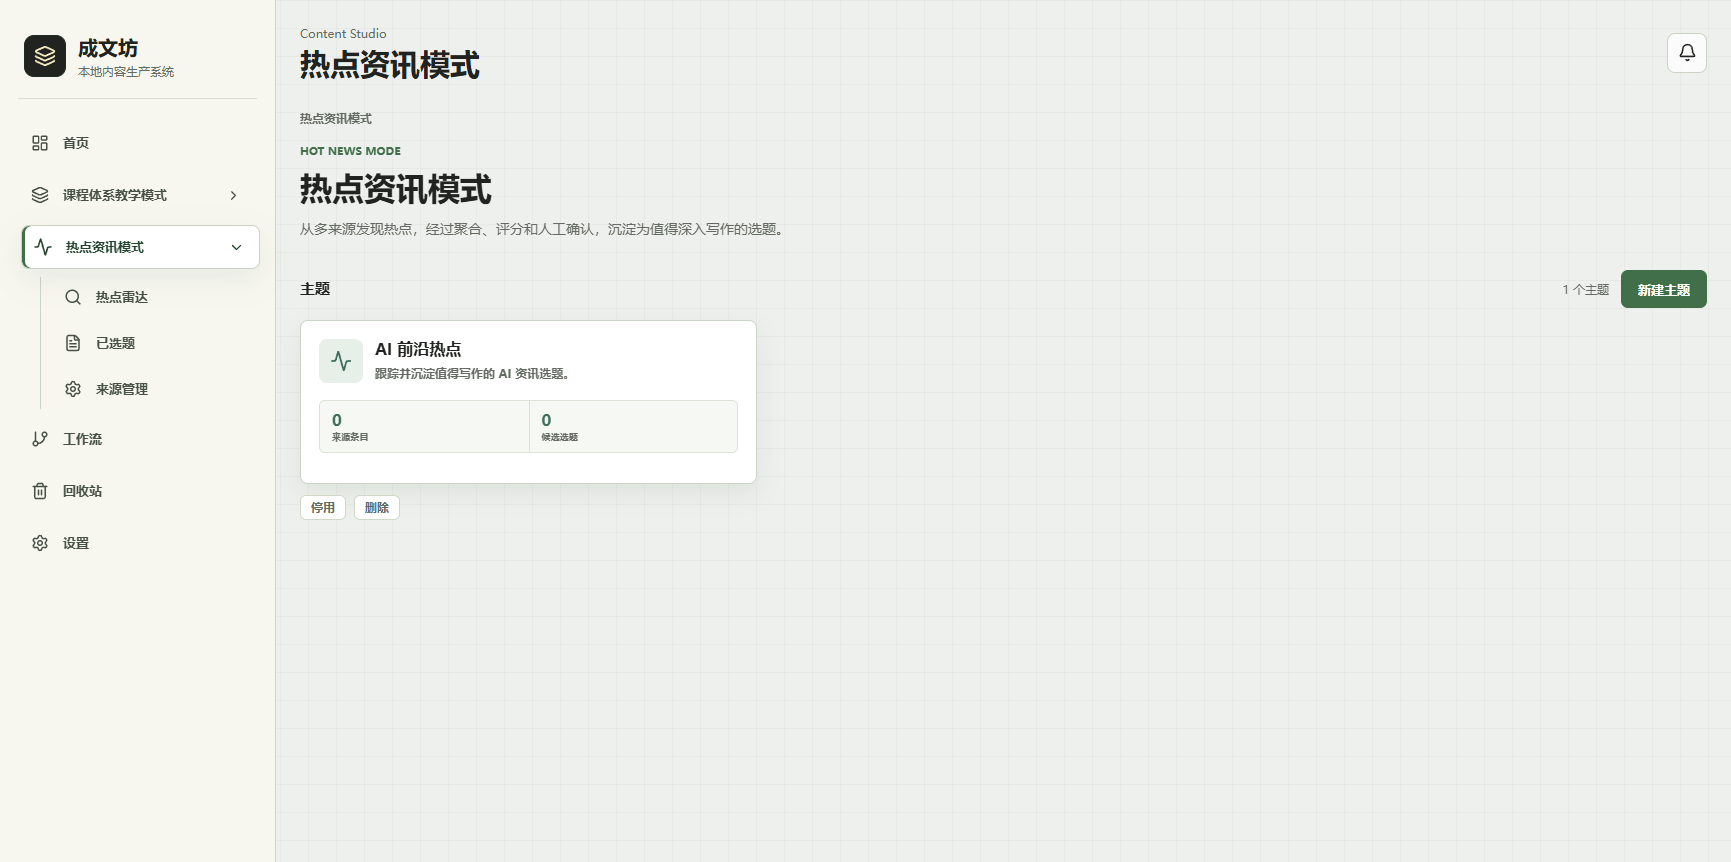
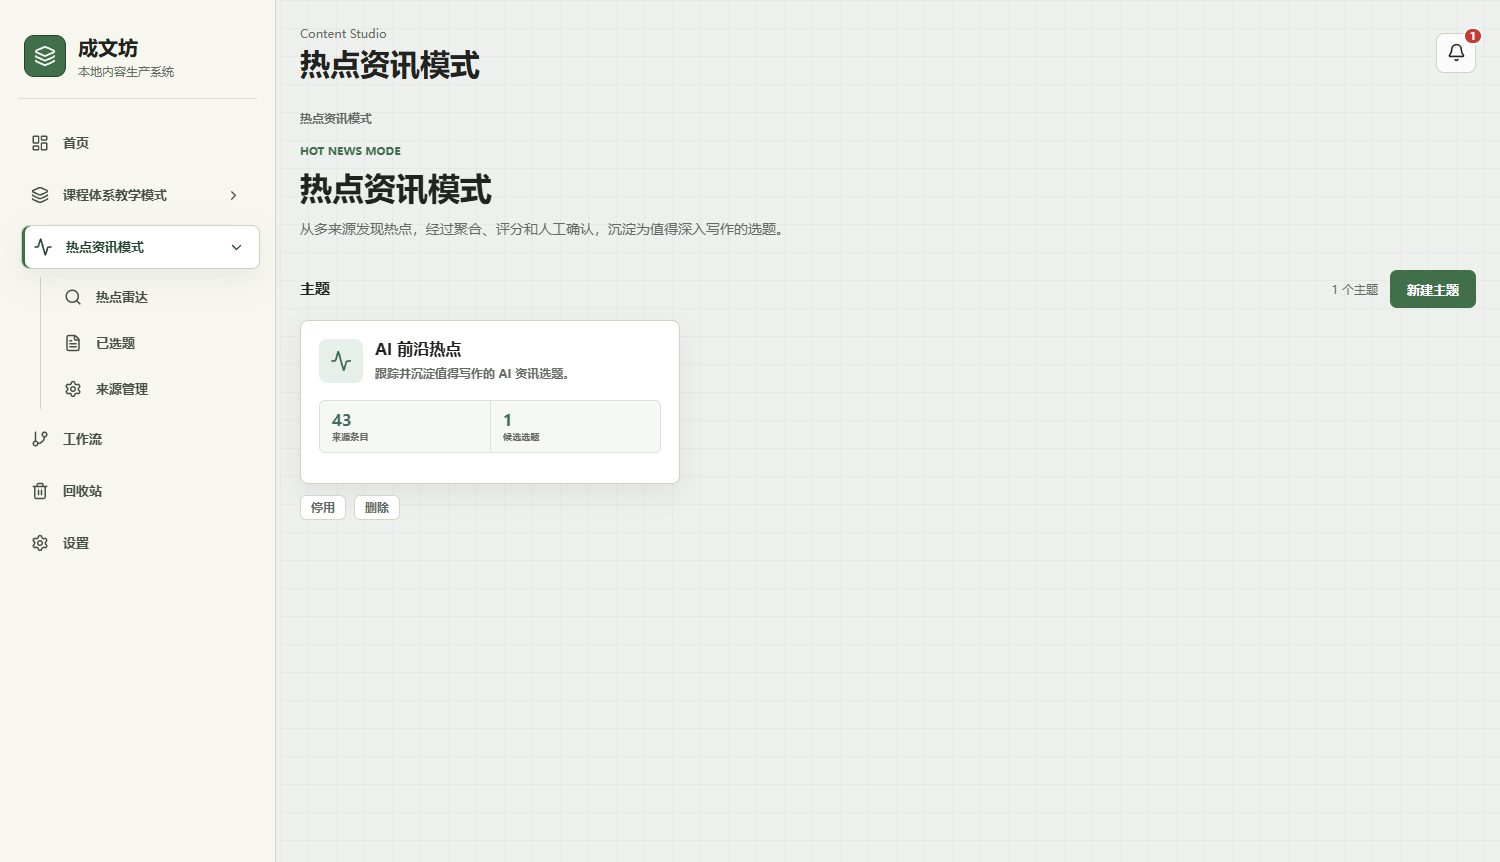
docs: hot-news screenshots with data, walkthrough GIF, and CI gate notes
Replace empty hot-news theme shot with real counts; add short GIF and radar still; document Actions unit-test gate vs local IT.

diff --git a/README.md b/README.md
@@ -26,19 +26,23 @@
 
 <p align="center">
   <img src="docs/screenshots/01-course-mode.png" alt="课程体系教学模式" width="48%" />
-  <img src="docs/screenshots/02-hotnews-mode.png" alt="热点资讯模式" width="48%" />
+  <img src="docs/screenshots/02-hotnews-mode.png" alt="热点资讯模式（主题卡片含来源/候选计数）" width="48%" />
 </p>
 <p align="center">
   <img src="docs/screenshots/03-workflows.png" alt="工作流" width="48%" />
   <img src="docs/screenshots/04-settings-ai.png" alt="设置 · AI 配置" width="48%" />
 </p>
+<p align="center">
+  <img src="docs/screenshots/hotnews-walkthrough.gif" alt="热点：主题 → 雷达 → 来源" width="72%" />
+</p>
 
 | 图 | 说明 |
 |----|------|
 | 课程体系 | 主题卡片、课表入口、新建主题 |
-| 热点资讯 | 雷达 / 已选题 / 来源管理 |
+| 热点资讯 | 主题卡片展示来源条目 / 候选选题计数（非空壳） |
 | 工作流 | 内置课程生成与热点采集 / 成文流程 |
 | 设置 | 文本 / 图片 / 多模态 AI 分供应商配置 |
+| GIF | 热点主题列表 → 雷达选题 → 来源管理（短循环） |
 
 ---
 
@@ -249,7 +253,26 @@ mvn -pl chengwenfang-app -am test
 npm test
 ```
 
-CI 跑 Vitest + 后端单元测试（不含需 Docker 的 IT）。
+### CI 门禁（GitHub Actions）
+
+工作流 [`.github/workflows/ci.yml`](.github/workflows/ci.yml) 在 `push` / `pull_request` 上跑两道必过门禁：
+
+| Job | 跑什么 | 不跑什么 |
+|-----|--------|----------|
+| `frontend` | `npm ci` + Vitest（Node 22） | — |
+| `backend` | `mvn -pl chengwenfang-app -am test`，并 **排除** `**/*IT.java`、`ChengwenfangIT`、以及 `golden/fingerprint/**` | 需 Docker / Testcontainers 的集成测试；跨 OS 易因 CRLF 抖动的 fingerprint 金样 |
+
+原因：公开 CI 无稳定的本机 Docker 服务编排时长与密钥，IT 与 fingerprint 金样在 Actions 上易红、成本高；门禁以可复现的单元测试为主。
+
+本地改持久化、HTTP 适配层或整仓冒烟时，请自行跑 IT（需 Docker Desktop）：
+
+```powershell
+. .\scripts\use-utf8.ps1
+# 与 CI 相同（默认也会跑到 IT，若本机 Surefire 未额外 excludes）
+mvn -pl chengwenfang-app -am test
+# 或只跑集成套件（类名 *IT）
+mvn -pl chengwenfang-app -am test -Dtest='*IT'
+```
 
 | 文档 | 说明 |
 |------|------|

diff --git a/CHANGELOG.md b/CHANGELOG.md
@@ -11,7 +11,9 @@ where releases are tagged.
 ### Changed
 
 - README facade: real UI screenshots, course-only quick start first, accurate module tree, optional hot-news deps called out.
+- Hot-news README shot shows populated theme metrics; add short walkthrough GIF (themes → radar → sources).
 - Document Spring Boot **3.3.5** pin and upgrade policy (root `pom.xml` `spring-boot.version`; patch vs minor rules).
+- Document CI gate: Actions runs Vitest + Maven unit tests; excludes `*IT` / fingerprint goldens (run IT locally with Docker).
 - Compose MySQL / app secrets come from `.env` (or `${VAR:-dev-default}`); no longer hardcode credentials as the only source.
 - Split large theme wizards into `themeWizard/` (hook + step components); pages/components keep re-exports.
 - `prod` profile: require `CHENGWENFANG_SECRET_KEY`, disable `crawler-allow-loopback`.
@@ -22,6 +24,7 @@ where releases are tagged.
 - `scripts/start.sh` for macOS / Linux course-only (or `--all-deps`) start.
 - Backend `Dockerfile` + compose profile `app` (jar only; Vite still on host).
 - `.env.example` lists `MYSQL_*` + `CHENGWENFANG_SECRET_KEY` for Compose substitution.
+- `docs/screenshots/hotnews-walkthrough.gif` and `05-hotnews-radar.png`.
 
 ### Fixed
 

diff --git a/docs/screenshots/README.md b/docs/screenshots/README.md
@@ -1,4 +1,13 @@
 # Screenshots
 
-PNG files referenced from the root `README.md`. Captured from a local demo UI;
+PNG / GIF files referenced from the root `README.md`. Captured from a local demo UI;
 do not commit screenshots that show real API keys or private manuscript bodies.
+
+| File | Notes |
+|------|--------|
+| `01-course-mode.png` | Course themes overview |
+| `02-hotnews-mode.png` | Hot-news themes with non-zero source / candidate counts |
+| `03-workflows.png` | Built-in workflows |
+| `04-settings-ai.png` | AI settings (keys masked / not configured) |
+| `05-hotnews-radar.png` | Radar board with scored topics (optional detail shot) |
+| `hotnews-walkthrough.gif` | Short loop: themes → radar → sources |

diff --git a/CONTRIBUTING.md b/CONTRIBUTING.md
@@ -32,8 +32,11 @@ npm test
 mvn -pl chengwenfang-app -am test
 ```
 
-Integration tests that need Docker/Testcontainers may be skipped in CI; run them
-locally when you change persistence or HTTP adapters.
+**CI gate** (see README「CI 门禁」): Actions runs Vitest + Maven unit tests only.
+`*IT` / `ChengwenfangIT` and `golden/fingerprint/**` are excluded in
+`.github/workflows/ci.yml` (Docker/Testcontainers cost + CRLF fingerprint flake).
+When you change persistence or HTTP adapters, run the IT suites locally with
+Docker Desktop before opening the PR.
 
 ## Code of Conduct
 
